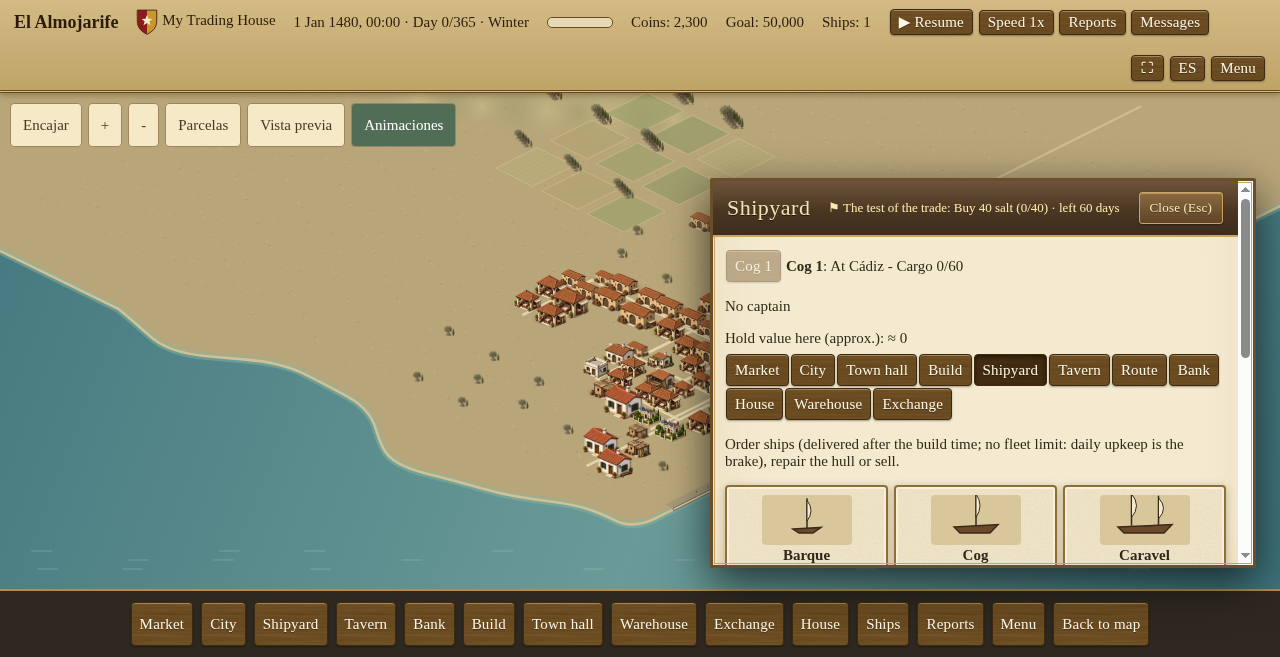
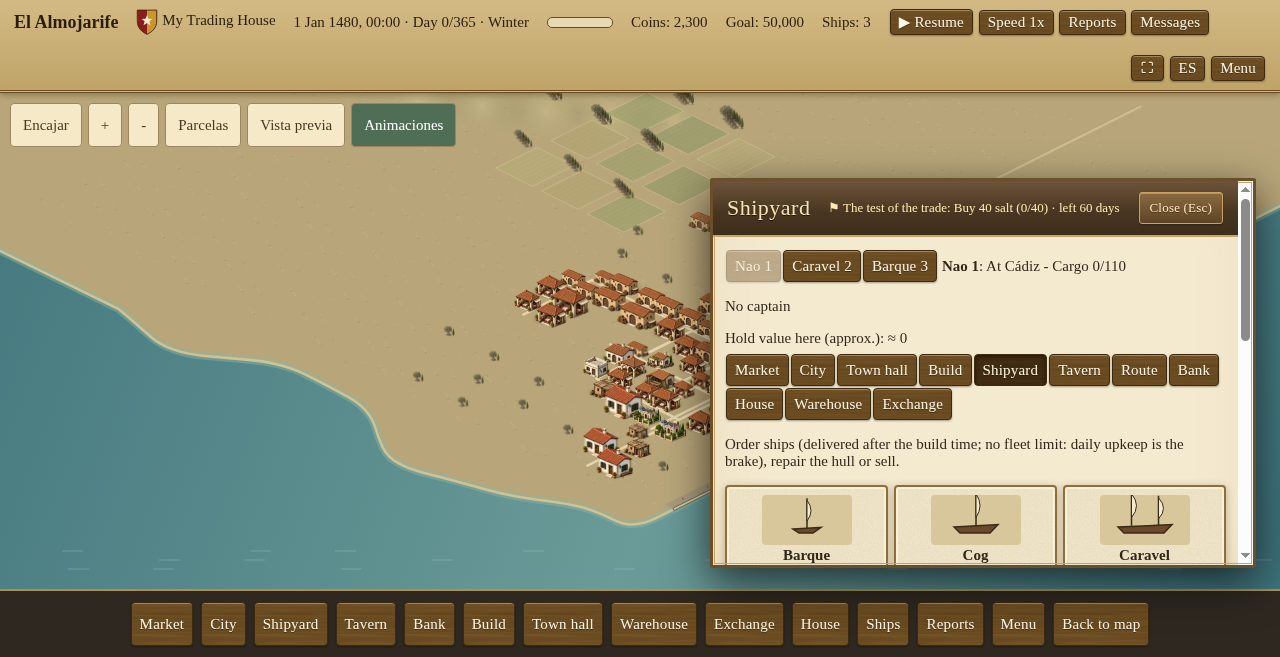
city2d: real docked ships ride at the piers; illustrated port/shipyard scenes removed (#378)
* city2d: real docked ships ride at the piers; illustrated port/shipyard scenes removed

Per the owner's art direction (24 Oct): the illustrated SVG scenes in the market
header and the shipyard tab are removed; the port lives in the 2D city canvas.
The player's real docked ships now ride at the harbour piers as city2d modules,
sized by class with the same bob animation; the cosmetic boat only fills an
empty harbour. The iframe asks for a state resend once booted, so a state post
that raced its load is no longer lost. Mechanics unchanged: class/state
descriptors, build orders and their progress text stay as they were; the small
class silhouettes on the order cards stay. README market/shipyard captures
refreshed from this build.

* city2d: fixed raft stride + validate city2d-ready source (review findings)

* city2d: raft berths outward until clear of other ships and neighbouring piers (short harbours)

* test: whitespace-tolerant walls payload regex; README capture provenance names the PR build

---------

Changed region(s): [[0.5625, 0.3653, 0.875, 0.4566], [0.9688, 0.5175, 1.0, 0.5479]]

diff --git a/web/index.html b/web/index.html
@@ -12,7 +12,7 @@ body:not(.in-city-3d):not(.has-event) main{grid-template-columns:minmax(300px,1f
 @media(max-width:800px){main{grid-template-columns:1fr}}
 .card{background:#f4ead0;border:1px solid #b8a06a;border-radius:6px;padding:8px}
 svg{width:100%;height:auto;background:#d9c79c;border-radius:4px}
-table{width:100%;border-collapse:collapse}tr.deal td{text-align:left;font-size:12px;border-bottom:1px solid #ccb;padding-bottom:5px}.event{background:#fbe9b8;border:2px solid #a0702a;border-radius:4px;padding:6px 10px;margin:4px 0}.event p{margin:4px 0}.scenebox{border:1px solid #b8a06a;border-radius:4px;overflow:hidden;margin:4px 0}svg.scene{display:block;border-radius:0}.best{font-size:12px;margin:4px 0}.best button{font-size:11px;padding:0 4px}svg.spark{vertical-align:middle;width:48px;height:16px;display:inline-block;background:none}
+table{width:100%;border-collapse:collapse}tr.deal td{text-align:left;font-size:12px;border-bottom:1px solid #ccb;padding-bottom:5px}.event{background:#fbe9b8;border:2px solid #a0702a;border-radius:4px;padding:6px 10px;margin:4px 0}.event p{margin:4px 0}.best{font-size:12px;margin:4px 0}.best button{font-size:11px;padding:0 4px}svg.spark{vertical-align:middle;width:48px;height:16px;display:inline-block;background:none}
 svg.lonja-chart{width:220px;height:56px;display:inline-block;background:#d9c79c;border-radius:4px}
 @media(max-width:700px){svg.lonja-chart{width:150px;height:38px}}small.tr{opacity:.8}td.qty{white-space:nowrap}td.qty button{min-width:26px}td.qty b{display:inline-block;min-width:28px;text-align:center}td,th{padding:2px 4px;text-align:right}td:first-child,th:first-child{text-align:left}
 button{font:inherit;background:#8a6a2f;color:#fff8e6;border:0;border-radius:4px;padding:3px 8px;cursor:pointer;margin:1px}

diff --git a/README.md b/README.md
@@ -32,13 +32,13 @@ You are a small merchant with one cog and a few coins in a harbour town. Buy che
 
 ## Screenshots
 
-_Captured from the playable build (main @ 78687e6, 23 Oct 2026); refresh when the UI changes so they never show unmerged work._
+_Captured from the playable build (PR #378 branch, 24 Oct 2026); refresh when the UI changes so they never show unmerged work._
 
 | The 3D port | Trade in the market |
 |---|---|
 | ![3D port view with the city toolbar](docs/img/port3d.png) | ![Market with prices, charts and cheap/dear arrows](docs/img/market.png) |
-| **The sea chart** | **Build ships at the slipway** |
-| ![Sea chart with ports, routes and the port panel](docs/img/map.png) | ![Shipyard slipway scene](docs/img/shipyard.png) |
+| **The sea chart** | **Build ships at the shipyard** |
+| ![Sea chart with ports, routes and the port panel](docs/img/map.png) | ![Shipyard tab with the ship classes and their orders](docs/img/shipyard.png) |
 | **Tavern: captains and news** | **Bank: loans and interest** |
 | ![Tavern tab](docs/img/tavern.png) | ![Bank tab](docs/img/bank.png) |
 | **Warehouse and steward** | **Create your house** |
